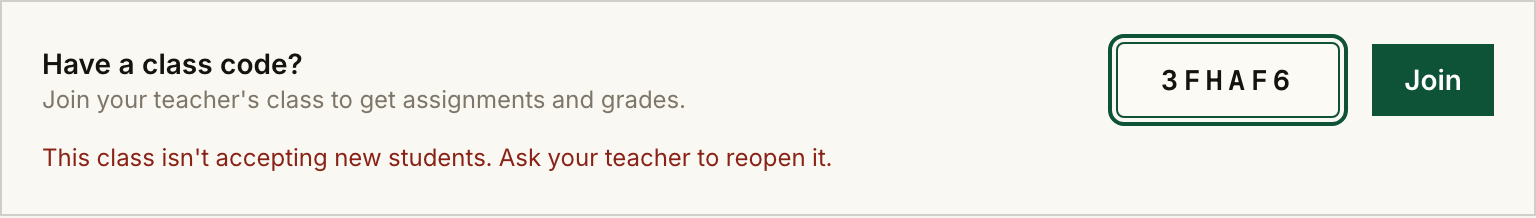
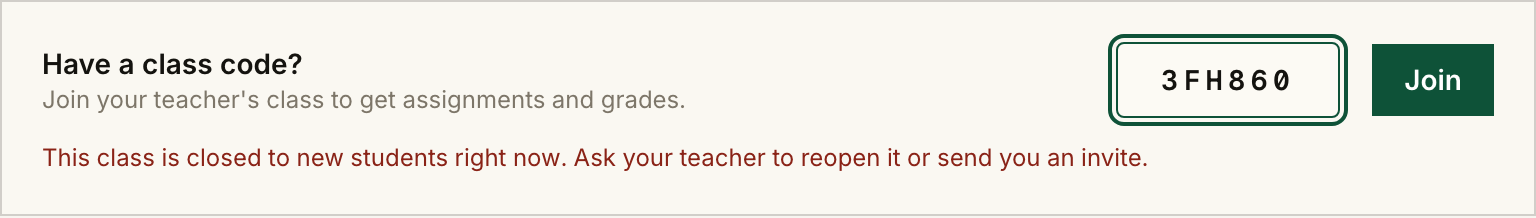
fix(sections): closing enrollment shuts the code, not the teacher's invites
Reverts the invite gate added in the previous commit. Blocking pending
invites created a worse hole than it closed: `invite_student` was never
gated, so a teacher with enrollment closed could still send an invite
email that 403'd the moment the student clicked it. Dead on arrival,
with no warning at either end.

The scope that actually holds together is the one the feature started
with. A join code is a broadcast channel — it leaks to group chats and
whiteboards, and closing it is the point. An invite is addressed to one
student and already has its own revoke. Teacher-driven paths (sending an
invite, redeeming one, adding an existing student) keep working.

Copy follows the behaviour rather than overstating it, and tells the
student the way forward: "This class is closed to new students right
now. Ask your teacher to reopen it or send you an invite."

The invite test flips accordingly — it now guards that an invite still
works while the code is shut, which is the load-bearing claim.

Claude-Session: https://claude.ai/code/session_01N4FWkYJEnDJkjUpt49SLF5

Changed region(s): [[0.0938, 0.6881, 0.75, 0.7706], [0.7812, 0.3303, 0.8438, 0.4128]]

diff --git a/web/src/components/school/teacher/sections-tab.tsx b/web/src/components/school/teacher/sections-tab.tsx
@@ -423,7 +423,7 @@ function SectionCard({
             <p className="text-xs text-text-muted">
               {enrollmentOpen
                 ? "Students enter this code to join."
-                : "New students can't join right now."}
+                : "New students can't join with this code right now."}
             </p>
             <button
               type="button"

diff --git a/tests/test_section_enrollment_open.py b/tests/test_section_enrollment_open.py
@@ -115,7 +115,7 @@ async def test_closing_enrollment_blocks_join_and_reopening_restores_it(
         json={"join_code": open_section["code"]},
     )
     assert blocked.status_code == 403, blocked.text
-    assert "accepting new students" in blocked.json()["detail"]
+    assert "closed to new students" in blocked.json()["detail"]
 
     reopened = await client.patch(
         _patch_url(open_section), headers=teacher, json={"enrollment_open": True},
@@ -150,7 +150,7 @@ async def test_closed_enrollment_blocks_signup_with_join_code(
         "join_code": open_section["code"],
     })
     assert resp.status_code == 400, resp.text
-    assert "accepting new students" in resp.json()["detail"]
+    assert "closed to new students" in resp.json()["detail"]
 
 
 @pytest.mark.asyncio
@@ -172,13 +172,12 @@ async def test_rename_does_not_disturb_enrollment_state(
 
 
 @pytest.mark.asyncio
-async def test_closed_enrollment_blocks_pending_email_invites(
+async def test_closed_enrollment_still_honours_email_invites(
     client: AsyncClient, open_section: dict[str, str],
 ) -> None:
-    """Closing enrollment has to shut every door, not just the code.
-    A pending emailed invite is still a way in, so the shared invite
-    loader gates on the same flag — which covers validating the link,
-    signing up through it, and claiming it while already logged in."""
+    """Closing enrollment shuts the broadcast channel, not the teacher's
+    per-person invites. A code can leak to anyone; an invite is addressed
+    to one student and can be revoked on its own, so it keeps working."""
     teacher = auth_headers(open_section["teacher_token"])
     invited_email = f"eo_invited_{open_section['tag'].lower()}@t.com"
 
@@ -195,23 +194,25 @@ async def test_closed_enrollment_blocks_pending_email_invites(
             select(SectionInvite.token).where(SectionInvite.email == invited_email)
         )).scalar_one()
 
-    # Still open: the link validates.
-    ok = await client.get(f"/v1/auth/invite/section/{token}")
-    assert ok.status_code == 200, ok.text
-
     await client.patch(
         _patch_url(open_section), headers=teacher, json={"enrollment_open": False},
     )
 
-    blocked = await client.get(f"/v1/auth/invite/section/{token}")
+    # The code is shut...
+    blocked = await client.post(
+        JOIN_URL,
+        headers=auth_headers(open_section["student_token"]),
+        json={"join_code": open_section["code"]},
+    )
     assert blocked.status_code == 403, blocked.text
-    assert "accepting new students" in blocked.json()["detail"]
 
+    # ...but the invited student still gets in.
+    assert (await client.get(f"/v1/auth/invite/section/{token}")).status_code == 200
     signup = await client.post(REGISTER_URL, json={
         "email": invited_email,
         "password": "StrongPass1",
-        "name": "Invited But Late",
+        "name": "Invited Student",
         "grade_level": 9,
         "section_invite_token": token,
     })
-    assert signup.status_code == 403, signup.text
+    assert signup.status_code == 201, signup.text

diff --git a/api/routes/auth.py b/api/routes/auth.py
@@ -215,7 +215,8 @@ async def register(
         if not join_section_obj.enrollment_open:
             raise HTTPException(
                 status_code=status.HTTP_400_BAD_REQUEST,
-                detail="This class isn't accepting new students. Ask your teacher to reopen it.",
+                detail="This class is closed to new students right now. "
+                       "Ask your teacher to reopen it or send you an invite.",
             )
         join_course = (await db.execute(
             select(Course).where(Course.id == join_section_obj.course_id)
@@ -417,11 +418,6 @@ async def _load_section_invite(
     )).scalar_one_or_none()
     if not section:
         raise HTTPException(status_code=status.HTTP_410_GONE, detail="Section no longer exists")
-    if not section.enrollment_open:
-        raise HTTPException(
-            status_code=status.HTTP_403_FORBIDDEN,
-            detail="This class isn't accepting new students. Ask your teacher to reopen it.",
-        )
     course = (await db.execute(
         select(Course).where(Course.id == section.course_id)
     )).scalar_one_or_none()

diff --git a/api/routes/teacher_sections.py b/api/routes/teacher_sections.py
@@ -450,7 +450,8 @@ async def join_section(
     if not section.enrollment_open:
         raise HTTPException(
             status_code=status.HTTP_403_FORBIDDEN,
-            detail="This class isn't accepting new students. Ask your teacher to reopen it.",
+            detail="This class is closed to new students right now. "
+                   "Ask your teacher to reopen it or send you an invite.",
         )
     already_in_section = (await db.execute(
         select(SectionEnrollment.id).where(
